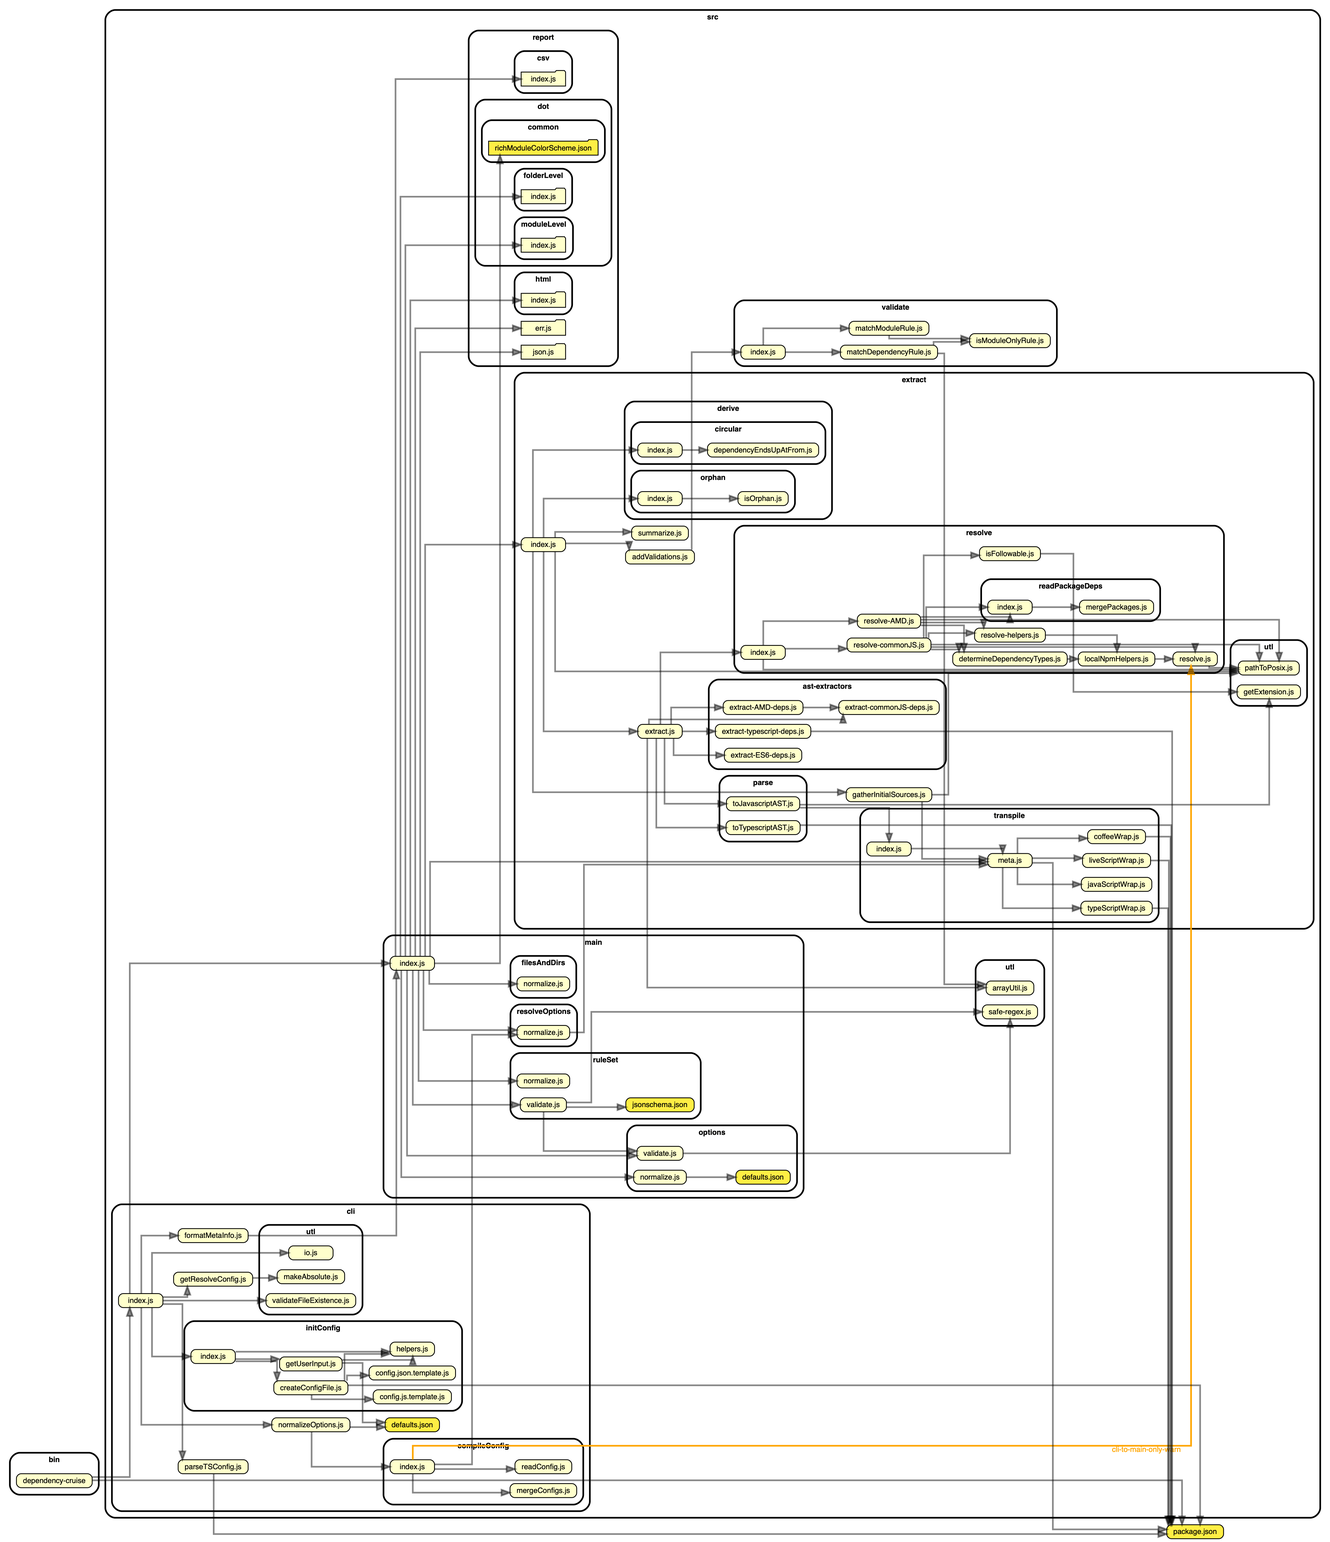
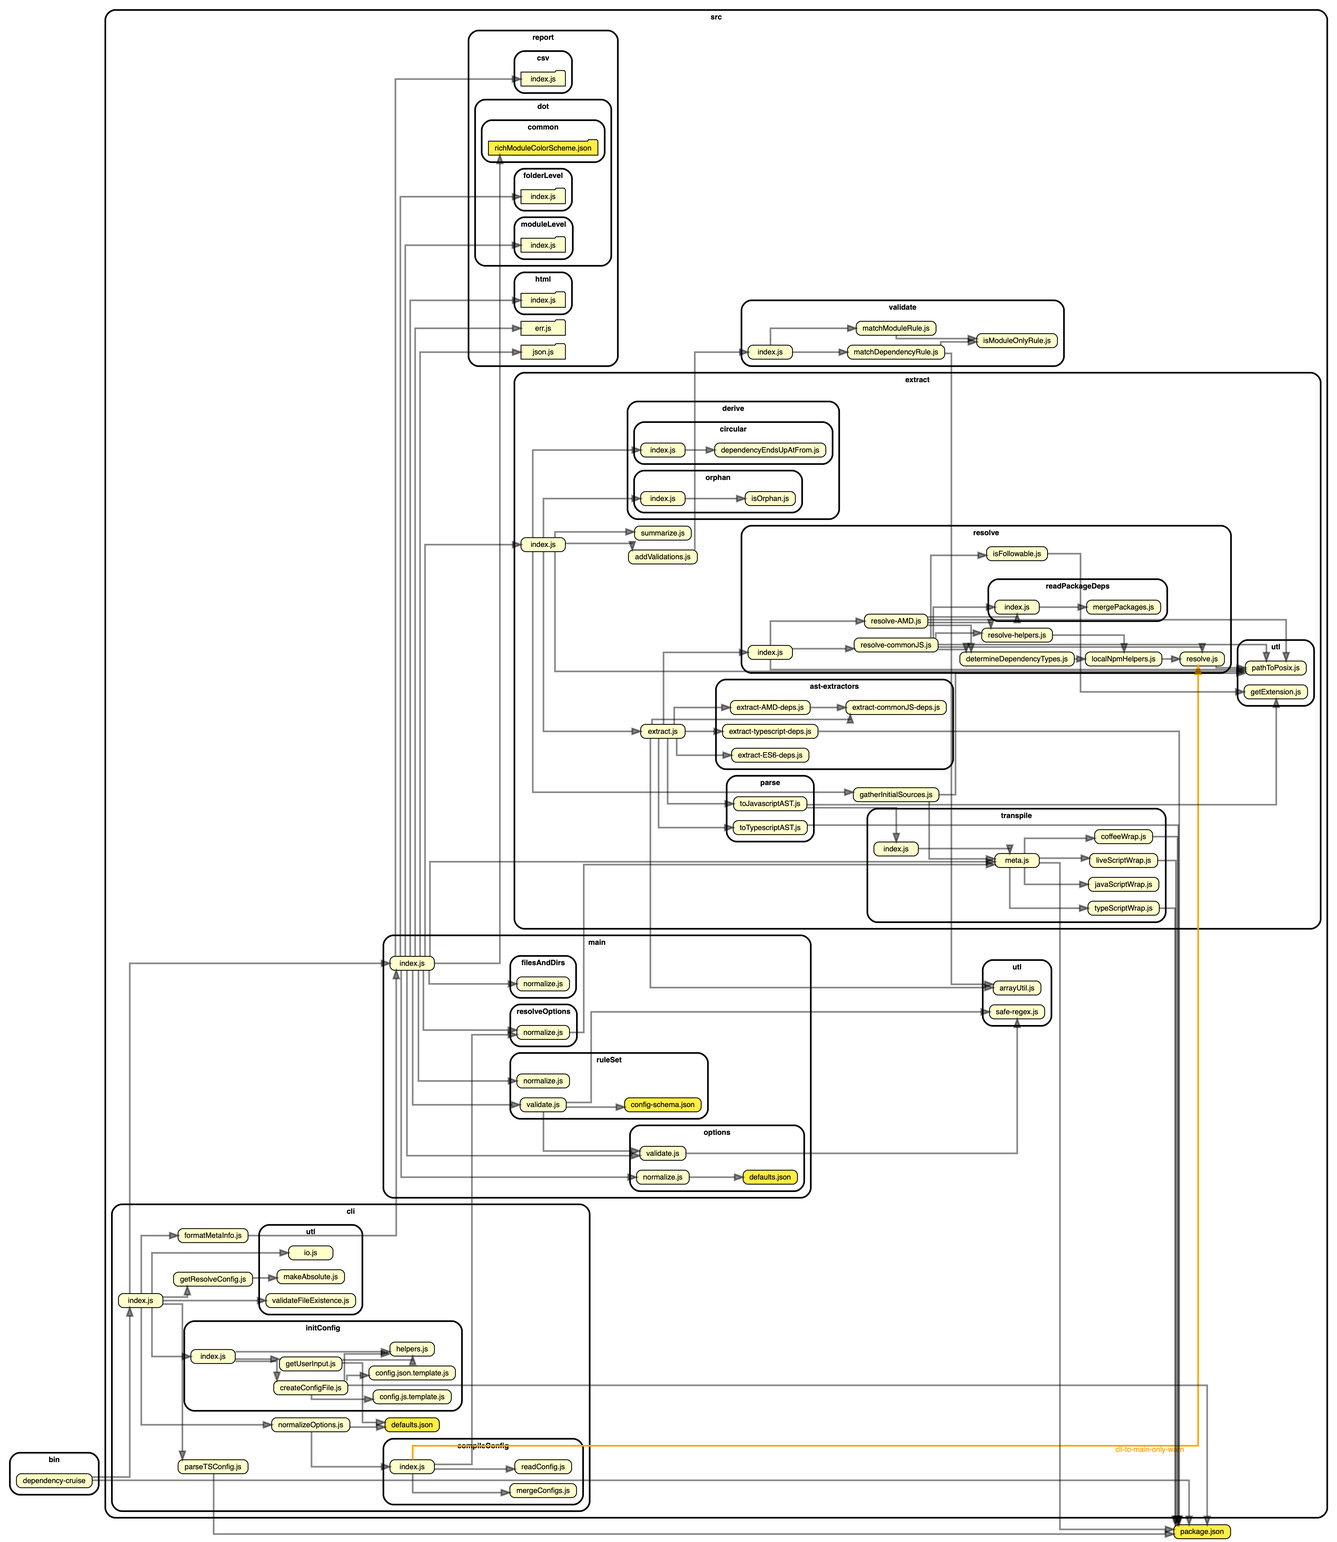
4.16.0-beta-0

diff --git a/docs/dependency-cruiser-dependency-graph.html b/docs/dependency-cruiser-dependency-graph.html
@@ -70,11 +70,6 @@
 <path fill="#ffffff" stroke="#000000" stroke-width="2" d="M482.6304,-673.5C482.6304,-673.5 1485.4089,-673.5 1485.4089,-673.5 1491.4089,-673.5 1497.4089,-679.5 1497.4089,-685.5 1497.4089,-685.5 1497.4089,-1337.5 1497.4089,-1337.5 1497.4089,-1343.5 1491.4089,-1349.5 1485.4089,-1349.5 1485.4089,-1349.5 482.6304,-1349.5 482.6304,-1349.5 476.6304,-1349.5 470.6304,-1343.5 470.6304,-1337.5 470.6304,-1337.5 470.6304,-685.5 470.6304,-685.5 470.6304,-679.5 476.6304,-673.5 482.6304,-673.5"/>
 <text text-anchor="middle" x="984.0197" y="-1338.3" font-family="Helvetica,sans-Serif" font-weight="bold" font-size="9.00" fill="#000000">extract</text>
 </g>
-<g id="clust7" class="cluster">
-<title>cluster_src/extract/ast&#45;extractors</title>
-<path fill="#ffffff" stroke="#000000" stroke-width="2" d="M767.1692,-867.5C767.1692,-867.5 1038.4946,-867.5 1038.4946,-867.5 1044.4946,-867.5 1050.4946,-873.5 1050.4946,-879.5 1050.4946,-879.5 1050.4946,-964.5 1050.4946,-964.5 1050.4946,-970.5 1044.4946,-976.5 1038.4946,-976.5 1038.4946,-976.5 767.1692,-976.5 767.1692,-976.5 761.1692,-976.5 755.1692,-970.5 755.1692,-964.5 755.1692,-964.5 755.1692,-879.5 755.1692,-879.5 755.1692,-873.5 761.1692,-867.5 767.1692,-867.5"/>
-<text text-anchor="middle" x="902.8319" y="-965.3" font-family="Helvetica,sans-Serif" font-weight="bold" font-size="9.00" fill="#000000">ast&#45;extractors</text>
-</g>
 <g id="clust8" class="cluster">
 <title>cluster_src/extract/derive</title>
 <path fill="#ffffff" stroke="#000000" stroke-width="2" d="M624.2739,-1171.5C624.2739,-1171.5 892.9666,-1171.5 892.9666,-1171.5 898.9666,-1171.5 904.9666,-1177.5 904.9666,-1183.5 904.9666,-1183.5 904.9666,-1302.5 904.9666,-1302.5 904.9666,-1308.5 898.9666,-1314.5 892.9666,-1314.5 892.9666,-1314.5 624.2739,-1314.5 624.2739,-1314.5 618.2739,-1314.5 612.2739,-1308.5 612.2739,-1302.5 612.2739,-1302.5 612.2739,-1183.5 612.2739,-1183.5 612.2739,-1177.5 618.2739,-1171.5 624.2739,-1171.5"/>
@@ -104,6 +99,11 @@
 <title>cluster_src/extract/resolve/readPackageDeps</title>
 <path fill="#ffffff" stroke="#000000" stroke-width="2" d="M1105.2817,-1047.5C1105.2817,-1047.5 1298.8481,-1047.5 1298.8481,-1047.5 1304.8481,-1047.5 1310.8481,-1053.5 1310.8481,-1059.5 1310.8481,-1059.5 1310.8481,-1086.5 1310.8481,-1086.5 1310.8481,-1092.5 1304.8481,-1098.5 1298.8481,-1098.5 1298.8481,-1098.5 1105.2817,-1098.5 1105.2817,-1098.5 1099.2817,-1098.5 1093.2817,-1092.5 1093.2817,-1086.5 1093.2817,-1086.5 1093.2817,-1059.5 1093.2817,-1059.5 1093.2817,-1053.5 1099.2817,-1047.5 1105.2817,-1047.5"/>
 <text text-anchor="middle" x="1202.0649" y="-1087.3" font-family="Helvetica,sans-Serif" font-weight="bold" font-size="9.00" fill="#000000">readPackageDeps</text>
+</g>
+<g id="clust7" class="cluster">
+<title>cluster_src/extract/ast&#45;extractors</title>
+<path fill="#ffffff" stroke="#000000" stroke-width="2" d="M767.1692,-867.5C767.1692,-867.5 1038.4946,-867.5 1038.4946,-867.5 1044.4946,-867.5 1050.4946,-873.5 1050.4946,-879.5 1050.4946,-879.5 1050.4946,-964.5 1050.4946,-964.5 1050.4946,-970.5 1044.4946,-976.5 1038.4946,-976.5 1038.4946,-976.5 767.1692,-976.5 767.1692,-976.5 761.1692,-976.5 755.1692,-970.5 755.1692,-964.5 755.1692,-964.5 755.1692,-879.5 755.1692,-879.5 755.1692,-873.5 761.1692,-867.5 767.1692,-867.5"/>
+<text text-anchor="middle" x="902.8319" y="-965.3" font-family="Helvetica,sans-Serif" font-weight="bold" font-size="9.00" fill="#000000">ast&#45;extractors</text>
 </g>
 <g id="clust14" class="cluster">
 <title>cluster_src/extract/transpile</title>
@@ -137,8 +137,8 @@
 </g>
 <g id="clust20" class="cluster">
 <title>cluster_src/main/ruleSet</title>
-<path fill="#ffffff" stroke="#000000" stroke-width="2" d="M477.623,-560.5C477.623,-560.5 692.791,-560.5 692.791,-560.5 698.791,-560.5 704.791,-566.5 704.791,-572.5 704.791,-572.5 704.791,-628.5 704.791,-628.5 704.791,-634.5 698.791,-640.5 692.791,-640.5 692.791,-640.5 477.623,-640.5 477.623,-640.5 471.623,-640.5 465.623,-634.5 465.623,-628.5 465.623,-628.5 465.623,-572.5 465.623,-572.5 465.623,-566.5 471.623,-560.5 477.623,-560.5"/>
-<text text-anchor="middle" x="585.207" y="-629.3" font-family="Helvetica,sans-Serif" font-weight="bold" font-size="9.00" fill="#000000">ruleSet</text>
+<path fill="#ffffff" stroke="#000000" stroke-width="2" d="M477.623,-560.5C477.623,-560.5 698.0425,-560.5 698.0425,-560.5 704.0425,-560.5 710.0425,-566.5 710.0425,-572.5 710.0425,-572.5 710.0425,-628.5 710.0425,-628.5 710.0425,-634.5 704.0425,-640.5 698.0425,-640.5 698.0425,-640.5 477.623,-640.5 477.623,-640.5 471.623,-640.5 465.623,-634.5 465.623,-628.5 465.623,-628.5 465.623,-572.5 465.623,-572.5 465.623,-566.5 471.623,-560.5 477.623,-560.5"/>
+<text text-anchor="middle" x="587.8328" y="-629.3" font-family="Helvetica,sans-Serif" font-weight="bold" font-size="9.00" fill="#000000">ruleSet</text>
 </g>
 <g id="clust21" class="cluster">
 <title>cluster_src/report</title>
@@ -738,8 +738,8 @@
 <!-- src/extract/extract.js&#45;&gt;src/extract/resolve/index.js -->
 <g id="edge39" class="edge">
 <title>src/extract/extract.js&#45;&gt;src/extract/resolve/index.js</title>
-<path fill="none" stroke="#000000" stroke-width="2" stroke-opacity="0.466667" d="M682.5731,-944.2C702.6336,-944.2 726.4089,-944.2 726.4089,-944.2 726.4089,-944.2 726.4089,-1063 726.4089,-1063 726.4089,-1063 784.0264,-1063 784.0264,-1063"/>
-<polygon fill="#000000" fill-opacity="0.466667" stroke="#000000" stroke-width="2" stroke-opacity="0.466667" points="784.0264,-1066.5001 794.0264,-1063 784.0263,-1059.5001 784.0264,-1066.5001"/>
+<path fill="none" stroke="#000000" stroke-width="2" stroke-opacity="0.466667" d="M682.5067,-944.2C703.3,-944.2 728.4089,-944.2 728.4089,-944.2 728.4089,-944.2 728.4089,-1063 728.4089,-1063 728.4089,-1063 783.8513,-1063 783.8513,-1063"/>
+<polygon fill="#000000" fill-opacity="0.466667" stroke="#000000" stroke-width="2" stroke-opacity="0.466667" points="783.8513,-1066.5001 793.8513,-1063 783.8513,-1059.5001 783.8513,-1066.5001"/>
 </g>
 <!-- src/utl/arrayUtil.js -->
 <g id="node79" class="node">
@@ -753,8 +753,8 @@
 <!-- src/extract/extract.js&#45;&gt;src/utl/arrayUtil.js -->
 <g id="edge32" class="edge">
 <title>src/extract/extract.js&#45;&gt;src/utl/arrayUtil.js</title>
-<path fill="none" stroke="#000000" stroke-width="2" stroke-opacity="0.466667" d="M682.5028,-947.6C697.2185,-947.6 712.4089,-947.6 712.4089,-947.6 712.4089,-947.6 712.4089,-1400.6667 712.4089,-1400.6667 712.4089,-1400.6667 1089.0384,-1400.6667 1089.0384,-1400.6667"/>
-<polygon fill="#000000" fill-opacity="0.466667" stroke="#000000" stroke-width="2" stroke-opacity="0.466667" points="1089.0384,-1404.1668 1099.0384,-1400.6667 1089.0383,-1397.1668 1089.0384,-1404.1668"/>
+<path fill="none" stroke="#000000" stroke-width="2" stroke-opacity="0.466667" d="M682.5263,-947.6C698.4372,-947.6 715.4089,-947.6 715.4089,-947.6 715.4089,-947.6 715.4089,-1400.6667 715.4089,-1400.6667 715.4089,-1400.6667 1089.2493,-1400.6667 1089.2493,-1400.6667"/>
+<polygon fill="#000000" fill-opacity="0.466667" stroke="#000000" stroke-width="2" stroke-opacity="0.466667" points="1089.2494,-1404.1668 1099.2493,-1400.6667 1089.2493,-1397.1668 1089.2494,-1404.1668"/>
 </g>
 <!-- src/extract/gatherInitialSources.js -->
 <g id="node30" class="node">
@@ -831,8 +831,8 @@
 <!-- src/extract/index.js&#45;&gt;src/extract/gatherInitialSources.js -->
 <g id="edge46" class="edge">
 <title>src/extract/index.js&#45;&gt;src/extract/gatherInitialSources.js</title>
-<path fill="none" stroke="#000000" stroke-width="2" stroke-opacity="0.466667" d="M506.4089,-993.7364C506.4089,-959.8796 506.4089,-839.5 506.4089,-839.5 506.4089,-839.5 919.0563,-839.5 919.0563,-839.5"/>
-<polygon fill="#000000" fill-opacity="0.466667" stroke="#000000" stroke-width="2" stroke-opacity="0.466667" points="919.0563,-843.0001 929.0563,-839.5 919.0562,-836.0001 919.0563,-843.0001"/>
+<path fill="none" stroke="#000000" stroke-width="2" stroke-opacity="0.466667" d="M515.4089,-993.7364C515.4089,-959.8796 515.4089,-839.5 515.4089,-839.5 515.4089,-839.5 919.149,-839.5 919.149,-839.5"/>
+<polygon fill="#000000" fill-opacity="0.466667" stroke="#000000" stroke-width="2" stroke-opacity="0.466667" points="919.149,-843.0001 929.149,-839.5 919.149,-836.0001 919.149,-843.0001"/>
 </g>
 <!-- src/extract/summarize.js -->
 <g id="node44" class="node">
@@ -1179,14 +1179,14 @@
 <!-- src/main/index.js&#45;&gt;src/extract/index.js -->
 <g id="edge80" class="edge">
 <title>src/main/index.js&#45;&gt;src/extract/index.js</title>
-<path fill="none" stroke="#000000" stroke-width="2" stroke-opacity="0.466667" d="M397.4089,-640.3049C397.4089,-696.487 397.4089,-1002.5 397.4089,-1002.5 397.4089,-1002.5 468.6007,-1002.5 468.6007,-1002.5"/>
-<polygon fill="#000000" fill-opacity="0.466667" stroke="#000000" stroke-width="2" stroke-opacity="0.466667" points="468.6007,-1006.0001 478.6007,-1002.5 468.6007,-999.0001 468.6007,-1006.0001"/>
+<path fill="none" stroke="#000000" stroke-width="2" stroke-opacity="0.466667" d="M408.3748,-631.5C442.7501,-631.5 497.4089,-631.5 497.4089,-631.5 497.4089,-631.5 497.4089,-983.6951 497.4089,-983.6951"/>
+<polygon fill="#000000" fill-opacity="0.466667" stroke="#000000" stroke-width="2" stroke-opacity="0.466667" points="493.909,-983.6951 497.4089,-993.6951 500.909,-983.6951 493.909,-983.6951"/>
 </g>
 <!-- src/main/index.js&#45;&gt;src/extract/transpile/meta.js -->
 <g id="edge81" class="edge">
 <title>src/main/index.js&#45;&gt;src/extract/transpile/meta.js</title>
-<path fill="none" stroke="#000000" stroke-width="2" stroke-opacity="0.466667" d="M403.4089,-640.0979C403.4089,-663.1621 403.4089,-724.6667 403.4089,-724.6667 403.4089,-724.6667 1091.1888,-724.6667 1091.1888,-724.6667"/>
-<polygon fill="#000000" fill-opacity="0.466667" stroke="#000000" stroke-width="2" stroke-opacity="0.466667" points="1091.1889,-728.1668 1101.1888,-724.6667 1091.1888,-721.1668 1091.1889,-728.1668"/>
+<path fill="none" stroke="#000000" stroke-width="2" stroke-opacity="0.466667" d="M402.4089,-640.0979C402.4089,-663.1621 402.4089,-724.6667 402.4089,-724.6667 402.4089,-724.6667 1091.1514,-724.6667 1091.1514,-724.6667"/>
+<polygon fill="#000000" fill-opacity="0.466667" stroke="#000000" stroke-width="2" stroke-opacity="0.466667" points="1091.1515,-728.1668 1101.1514,-724.6667 1091.1514,-721.1668 1091.1515,-728.1668"/>
 </g>
 <!-- src/main/index.js&#45;&gt;src/main/filesAndDirs/normalize.js -->
 <g id="edge89" class="edge">
@@ -1287,8 +1287,8 @@
 <!-- src/main/index.js&#45;&gt;src/report/dot/common/richModuleColorScheme.json -->
 <g id="edge83" class="edge">
 <title>src/main/index.js&#45;&gt;src/report/dot/common/richModuleColorScheme.json</title>
-<path fill="none" stroke="#000000" stroke-width="2" stroke-opacity="0.466667" d="M370.4089,-640.0693C370.4089,-744.9849 370.4089,-1778 370.4089,-1778 370.4089,-1778 744.1865,-1778 744.1865,-1778"/>
-<polygon fill="#000000" fill-opacity="0.466667" stroke="#000000" stroke-width="2" stroke-opacity="0.466667" points="744.1865,-1781.5001 754.1865,-1778 744.1864,-1774.5001 744.1865,-1781.5001"/>
+<path fill="none" stroke="#000000" stroke-width="2" stroke-opacity="0.466667" d="M372.4089,-640.0693C372.4089,-744.9849 372.4089,-1778 372.4089,-1778 372.4089,-1778 744.4837,-1778 744.4837,-1778"/>
+<polygon fill="#000000" fill-opacity="0.466667" stroke="#000000" stroke-width="2" stroke-opacity="0.466667" points="744.4838,-1781.5001 754.4837,-1778 744.4837,-1774.5001 744.4838,-1781.5001"/>
 </g>
 <!-- src/report/dot/folderLevel/index.js -->
 <g id="node72" class="node">
@@ -1302,8 +1302,8 @@
 <!-- src/main/index.js&#45;&gt;src/report/dot/folderLevel/index.js -->
 <g id="edge84" class="edge">
 <title>src/main/index.js&#45;&gt;src/report/dot/folderLevel/index.js</title>
-<path fill="none" stroke="#000000" stroke-width="2" stroke-opacity="0.466667" d="M365.4089,-640.1566C365.4089,-750.6854 365.4089,-1882.5 365.4089,-1882.5 365.4089,-1882.5 468.5943,-1882.5 468.5943,-1882.5"/>
-<polygon fill="#000000" fill-opacity="0.466667" stroke="#000000" stroke-width="2" stroke-opacity="0.466667" points="468.5943,-1886.0001 478.5943,-1882.5 468.5942,-1879.0001 468.5943,-1886.0001"/>
+<path fill="none" stroke="#000000" stroke-width="2" stroke-opacity="0.466667" d="M366.4089,-640.1566C366.4089,-750.6854 366.4089,-1882.5 366.4089,-1882.5 366.4089,-1882.5 468.4566,-1882.5 468.4566,-1882.5"/>
+<polygon fill="#000000" fill-opacity="0.466667" stroke="#000000" stroke-width="2" stroke-opacity="0.466667" points="468.4566,-1886.0001 478.4566,-1882.5 468.4565,-1879.0001 468.4566,-1886.0001"/>
 </g>
 <!-- src/report/dot/moduleLevel/index.js -->
 <g id="node74" class="node">
@@ -1317,8 +1317,8 @@
 <!-- src/main/index.js&#45;&gt;src/report/dot/moduleLevel/index.js -->
 <g id="edge85" class="edge">
 <title>src/main/index.js&#45;&gt;src/report/dot/moduleLevel/index.js</title>
-<path fill="none" stroke="#000000" stroke-width="2" stroke-opacity="0.466667" d="M376.4089,-640.1532C376.4089,-741.8894 376.4089,-1706.5 376.4089,-1706.5 376.4089,-1706.5 468.5413,-1706.5 468.5413,-1706.5"/>
-<polygon fill="#000000" fill-opacity="0.466667" stroke="#000000" stroke-width="2" stroke-opacity="0.466667" points="468.5414,-1710.0001 478.5413,-1706.5 468.5413,-1703.0001 468.5414,-1710.0001"/>
+<path fill="none" stroke="#000000" stroke-width="2" stroke-opacity="0.466667" d="M378.4089,-640.1532C378.4089,-741.8894 378.4089,-1706.5 378.4089,-1706.5 378.4089,-1706.5 468.3382,-1706.5 468.3382,-1706.5"/>
+<polygon fill="#000000" fill-opacity="0.466667" stroke="#000000" stroke-width="2" stroke-opacity="0.466667" points="468.3382,-1710.0001 478.3382,-1706.5 468.3381,-1703.0001 468.3382,-1710.0001"/>
 </g>
 <!-- src/report/err.js -->
 <g id="node75" class="node">
@@ -1332,8 +1332,8 @@
 <!-- src/main/index.js&#45;&gt;src/report/err.js -->
 <g id="edge86" class="edge">
 <title>src/main/index.js&#45;&gt;src/report/err.js</title>
-<path fill="none" stroke="#000000" stroke-width="2" stroke-opacity="0.466667" d="M387.4089,-640.2795C387.4089,-735.8493 387.4089,-1579.5 387.4089,-1579.5 387.4089,-1579.5 468.508,-1579.5 468.508,-1579.5"/>
-<polygon fill="#000000" fill-opacity="0.466667" stroke="#000000" stroke-width="2" stroke-opacity="0.466667" points="468.508,-1583.0001 478.508,-1579.5 468.508,-1576.0001 468.508,-1583.0001"/>
+<path fill="none" stroke="#000000" stroke-width="2" stroke-opacity="0.466667" d="M390.4089,-640.2795C390.4089,-735.8493 390.4089,-1579.5 390.4089,-1579.5 390.4089,-1579.5 468.6161,-1579.5 468.6161,-1579.5"/>
+<polygon fill="#000000" fill-opacity="0.466667" stroke="#000000" stroke-width="2" stroke-opacity="0.466667" points="468.6161,-1583.0001 478.6161,-1579.5 468.616,-1576.0001 468.6161,-1583.0001"/>
 </g>
 <!-- src/report/html/index.js -->
 <g id="node77" class="node">
@@ -1347,8 +1347,8 @@
 <!-- src/main/index.js&#45;&gt;src/report/html/index.js -->
 <g id="edge87" class="edge">
 <title>src/main/index.js&#45;&gt;src/report/html/index.js</title>
-<path fill="none" stroke="#000000" stroke-width="2" stroke-opacity="0.466667" d="M381.4089,-640.2894C381.4089,-737.7815 381.4089,-1613.5 381.4089,-1613.5 381.4089,-1613.5 468.3694,-1613.5 468.3694,-1613.5"/>
-<polygon fill="#000000" fill-opacity="0.466667" stroke="#000000" stroke-width="2" stroke-opacity="0.466667" points="468.3695,-1617.0001 478.3694,-1613.5 468.3694,-1610.0001 468.3695,-1617.0001"/>
+<path fill="none" stroke="#000000" stroke-width="2" stroke-opacity="0.466667" d="M384.4089,-640.2894C384.4089,-737.7815 384.4089,-1613.5 384.4089,-1613.5 384.4089,-1613.5 468.4259,-1613.5 468.4259,-1613.5"/>
+<polygon fill="#000000" fill-opacity="0.466667" stroke="#000000" stroke-width="2" stroke-opacity="0.466667" points="468.4259,-1617.0001 478.4259,-1613.5 468.4259,-1610.0001 468.4259,-1617.0001"/>
 </g>
 <!-- src/report/json.js -->
 <g id="node78" class="node">
@@ -1362,8 +1362,8 @@
 <!-- src/main/index.js&#45;&gt;src/report/json.js -->
 <g id="edge88" class="edge">
 <title>src/main/index.js&#45;&gt;src/report/json.js</title>
-<path fill="none" stroke="#000000" stroke-width="2" stroke-opacity="0.466667" d="M392.4089,-640.0109C392.4089,-732.6572 392.4089,-1550.5 392.4089,-1550.5 392.4089,-1550.5 468.511,-1550.5 468.511,-1550.5"/>
-<polygon fill="#000000" fill-opacity="0.466667" stroke="#000000" stroke-width="2" stroke-opacity="0.466667" points="468.5111,-1554.0001 478.511,-1550.5 468.511,-1547.0001 468.5111,-1554.0001"/>
+<path fill="none" stroke="#000000" stroke-width="2" stroke-opacity="0.466667" d="M396.4089,-640.0109C396.4089,-732.6572 396.4089,-1550.5 396.4089,-1550.5 396.4089,-1550.5 468.3509,-1550.5 468.3509,-1550.5"/>
+<polygon fill="#000000" fill-opacity="0.466667" stroke="#000000" stroke-width="2" stroke-opacity="0.466667" points="468.351,-1554.0001 478.3509,-1550.5 468.3509,-1547.0001 468.351,-1554.0001"/>
 </g>
 <!-- src/main/options/defaults.json -->
 <g id="node55" class="node">
@@ -1401,12 +1401,12 @@
 <path fill="none" stroke="#000000" stroke-width="2" stroke-opacity="0.466667" d="M537.9842,-439.5C664.0479,-439.5 1115.4089,-439.5 1115.4089,-439.5 1115.4089,-439.5 1115.4089,-708.8807 1115.4089,-708.8807"/>
 <polygon fill="#000000" fill-opacity="0.466667" stroke="#000000" stroke-width="2" stroke-opacity="0.466667" points="1111.909,-708.8807 1115.4089,-718.8807 1118.909,-708.8808 1111.909,-708.8807"/>
 </g>
-<!-- src/main/ruleSet/jsonschema.json -->
+<!-- src/main/ruleSet/config&#45;schema.json -->
 <g id="node59" class="node">
-<title>src/main/ruleSet/jsonschema.json</title>
-<g id="a_node59"><a xlink:href="https://github.com/sverweij/dependency-cruiser/blob/develop/src/main/ruleSet/jsonschema.json" xlink:title="jsonschema.json">
-<path fill="#ffee44" stroke="#000000" d="M691.1414,-586C691.1414,-586 619.4064,-586 619.4064,-586 616.5731,-586 613.7397,-583.1667 613.7397,-580.3333 613.7397,-580.3333 613.7397,-574.6667 613.7397,-574.6667 613.7397,-571.8333 616.5731,-569 619.4064,-569 619.4064,-569 691.1414,-569 691.1414,-569 693.9748,-569 696.8081,-571.8333 696.8081,-574.6667 696.8081,-574.6667 696.8081,-580.3333 696.8081,-580.3333 696.8081,-583.1667 693.9748,-586 691.1414,-586"/>
-<text text-anchor="middle" x="655.2739" y="-574.8" font-family="Helvetica,sans-Serif" font-size="9.00" fill="#000000">jsonschema.json</text>
+<title>src/main/ruleSet/config&#45;schema.json</title>
+<g id="a_node59"><a xlink:href="https://github.com/sverweij/dependency-cruiser/blob/develop/src/main/ruleSet/config-schema.json" xlink:title="config&#45;schema.json">
+<path fill="#ffee44" stroke="#000000" d="M696.1455,-586C696.1455,-586 614.4023,-586 614.4023,-586 611.569,-586 608.7357,-583.1667 608.7357,-580.3333 608.7357,-580.3333 608.7357,-574.6667 608.7357,-574.6667 608.7357,-571.8333 611.569,-569 614.4023,-569 614.4023,-569 696.1455,-569 696.1455,-569 698.9788,-569 701.8122,-571.8333 701.8122,-574.6667 701.8122,-574.6667 701.8122,-580.3333 701.8122,-580.3333 701.8122,-583.1667 698.9788,-586 696.1455,-586"/>
+<text text-anchor="middle" x="655.2739" y="-574.8" font-family="Helvetica,sans-Serif" font-size="9.00" fill="#000000">config&#45;schema.json</text>
 </a>
 </g>
 </g>
@@ -1416,11 +1416,11 @@
 <path fill="none" stroke="#000000" stroke-width="2" stroke-opacity="0.466667" d="M506.4089,-568.6105C506.4089,-553.3203 506.4089,-523.6667 506.4089,-523.6667 506.4089,-523.6667 616.9232,-523.6667 616.9232,-523.6667"/>
 <polygon fill="#000000" fill-opacity="0.466667" stroke="#000000" stroke-width="2" stroke-opacity="0.466667" points="616.9232,-527.1668 626.9232,-523.6667 616.9231,-520.1668 616.9232,-527.1668"/>
 </g>
-<!-- src/main/ruleSet/validate.js&#45;&gt;src/main/ruleSet/jsonschema.json -->
+<!-- src/main/ruleSet/validate.js&#45;&gt;src/main/ruleSet/config&#45;schema.json -->
 <g id="edge100" class="edge">
-<title>src/main/ruleSet/validate.js&#45;&gt;src/main/ruleSet/jsonschema.json</title>
-<path fill="none" stroke="#000000" stroke-width="2" stroke-opacity="0.466667" d="M533.7772,-574.6667C533.7772,-574.6667 603.6799,-574.6667 603.6799,-574.6667"/>
-<polygon fill="#000000" fill-opacity="0.466667" stroke="#000000" stroke-width="2" stroke-opacity="0.466667" points="603.68,-578.1668 613.6799,-574.6667 603.6799,-571.1668 603.68,-578.1668"/>
+<title>src/main/ruleSet/validate.js&#45;&gt;src/main/ruleSet/config&#45;schema.json</title>
+<path fill="none" stroke="#000000" stroke-width="2" stroke-opacity="0.466667" d="M533.7772,-574.6667C533.7772,-574.6667 598.7221,-574.6667 598.7221,-574.6667"/>
+<polygon fill="#000000" fill-opacity="0.466667" stroke="#000000" stroke-width="2" stroke-opacity="0.466667" points="598.7221,-578.1668 608.7221,-574.6667 598.722,-571.1668 598.7221,-578.1668"/>
 </g>
 <!-- src/main/ruleSet/validate.js&#45;&gt;src/utl/safe&#45;regex.js -->
 <g id="edge98" class="edge">
@@ -1599,8 +1599,8 @@
 <!-- src/report/html/index.js&#45;&gt;src/report/dependencyToIncidenceTransformer.js -->
 <g id="edge114" class="edge">
 <title>src/report/html/index.js&#45;&gt;src/report/dependencyToIncidenceTransformer.js</title>
-<path fill="none" stroke="#000000" stroke-width="2" stroke-opacity="0.466667" d="M533.0877,-1616.3333C558.5111,-1616.3333 592.4089,-1616.3333 592.4089,-1616.3333 592.4089,-1616.3333 592.4089,-1645.6655 592.4089,-1645.6655"/>
-<polygon fill="#000000" fill-opacity="0.466667" stroke="#000000" stroke-width="2" stroke-opacity="0.466667" points="588.909,-1645.6655 592.4089,-1655.6655 595.909,-1645.6655 588.909,-1645.6655"/>
+<path fill="none" stroke="#000000" stroke-width="2" stroke-opacity="0.466667" d="M533.0626,-1616.3333C557.496,-1616.3333 589.4089,-1616.3333 589.4089,-1616.3333 589.4089,-1616.3333 589.4089,-1645.6655 589.4089,-1645.6655"/>
+<polygon fill="#000000" fill-opacity="0.466667" stroke="#000000" stroke-width="2" stroke-opacity="0.466667" points="585.909,-1645.6655 589.4089,-1655.6655 592.909,-1645.6655 585.909,-1645.6655"/>
 </g>
 <!-- src/report/html/index.js&#45;&gt;src/report/html/html.template.js -->
 <g id="edge115" class="edge">
